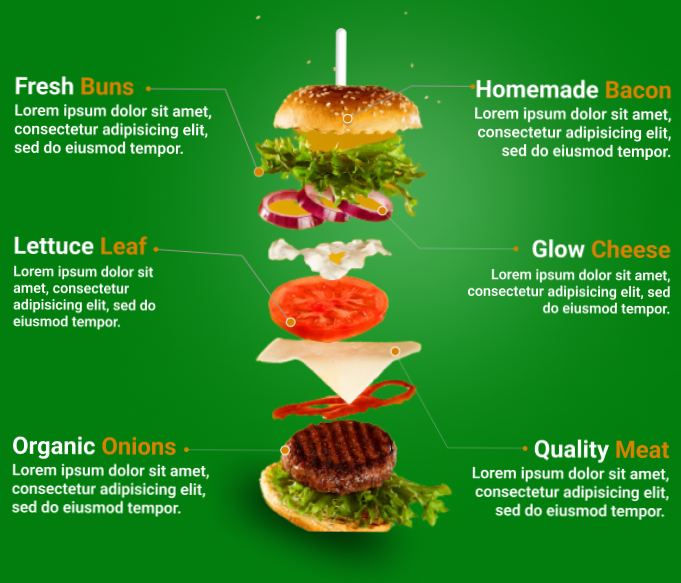
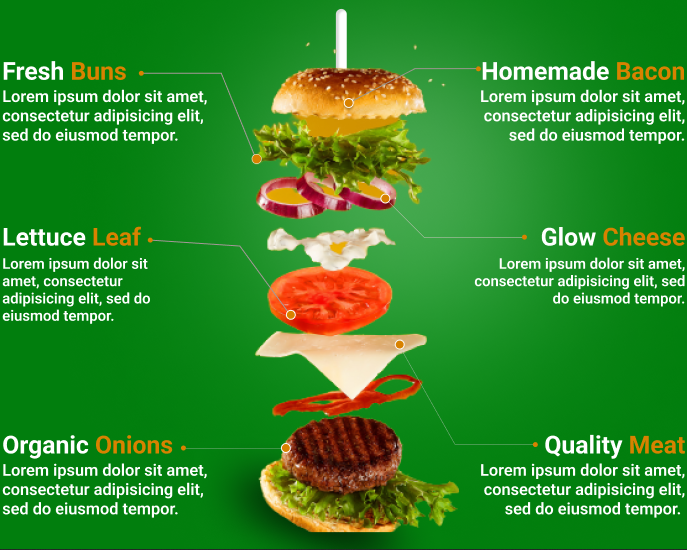
Finished Parts of burger section

diff --git a/src/components/Ingredients/Ingredients.jsx b/src/components/Ingredients/Ingredients.jsx
@@ -1,19 +1,24 @@
 import React from 'react'
 import './Ingredients.css'
 import HeaderIngredients from './HeaderIngredients/HeaderIngredients';
+import BackgroundIngredients from './BackgroundIngredients/BackgroundIngredients';
+import styled from 'styled-components';
 
-
+const IngredientsSection = styled.section`
+    background-color:${props => props.theme.colors.green};
+`
 
 const Ingredients = () => {
 
 
     return(
-        <section>
+        <IngredientsSection className='Ingredients'>
             <HeaderIngredients
                 title="Ingredientes"
                 sub="Feito com Ingredients Naturais"
             />
-        </section>
+            <BackgroundIngredients/>
+        </IngredientsSection>
     )
 }
 

diff --git a/src/components/Ingredients/HeaderIngredients/HeaderIngredients.jsx b/src/components/Ingredients/HeaderIngredients/HeaderIngredients.jsx
@@ -1,5 +1,4 @@
 import React from "react";
-import './HeaderIngredients.css'
 import styled from 'styled-components';
 
 const Head = styled.div`
@@ -12,7 +11,7 @@ const Head = styled.div`
 `
 
 const Title = styled.h1`
-    color:${props => props.theme.colors.darkYellow};
+    color:${props => props.theme.colors.lightYellow};
     font-family: ${props => props.theme.font.Title};
     font-size:4rem;
 `

diff --git a/src/components/Ingredients/BackgroundIngredients/BackgroundIngredients.jsx b/src/components/Ingredients/BackgroundIngredients/BackgroundIngredients.jsx
@@ -1,0 +1,15 @@
+import React from "react";
+import './BackgroundIngredients.css'
+
+
+const BackgroundIngredients = () => {
+
+
+    return(
+        <div className="backgroundIngredients">
+
+        </div>
+    )
+}
+
+export default BackgroundIngredients

diff --git a/src/components/Ingredients/BackgroundIngredients/BackgroundIngredients.css b/src/components/Ingredients/BackgroundIngredients/BackgroundIngredients.css
@@ -1,0 +1,8 @@
+.backgroundIngredients {
+    height: 100%;
+
+    background-image: url(../../../assets/img/backgroundPartsofBurguer.png);
+    background-repeat: no-repeat;
+    background-size: 90%;
+    background-position: center;
+}

diff --git a/src/components/Ingredients/Ingredients.css b/src/components/Ingredients/Ingredients.css
@@ -1,0 +1,6 @@
+.Ingredients {
+    height: 1600px;
+
+    display: flex;
+    flex-direction: column;
+}
